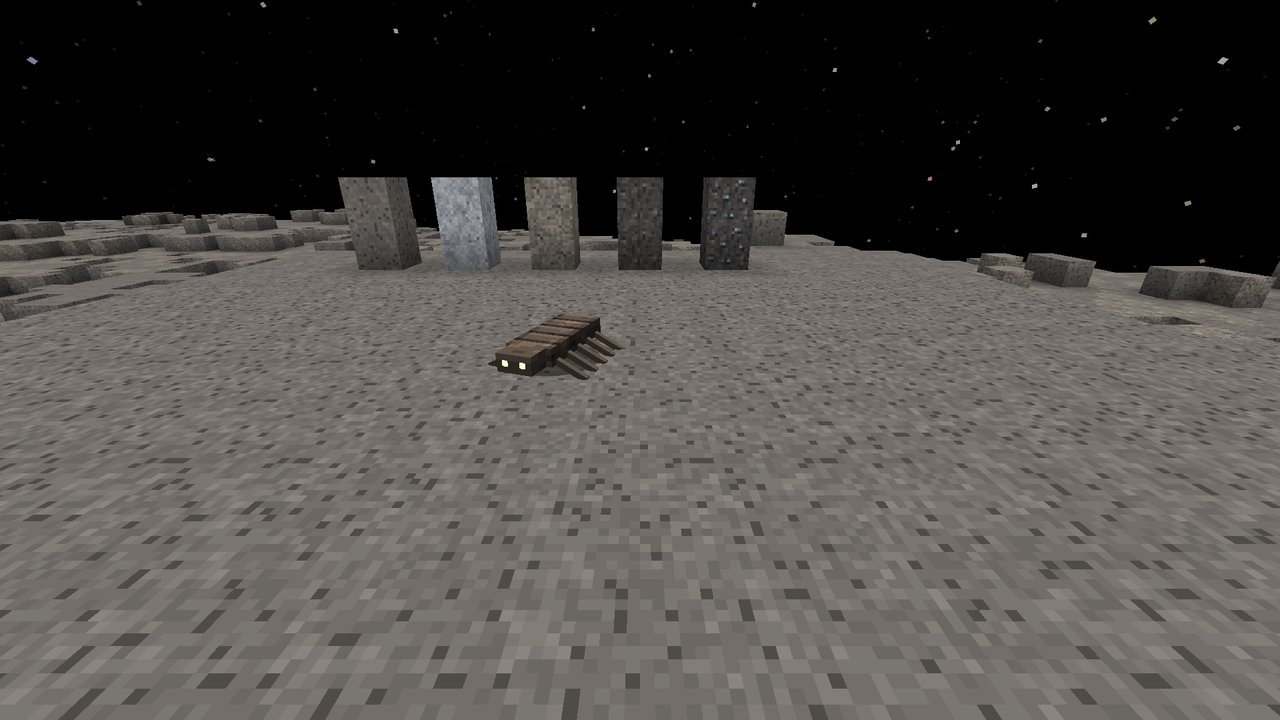
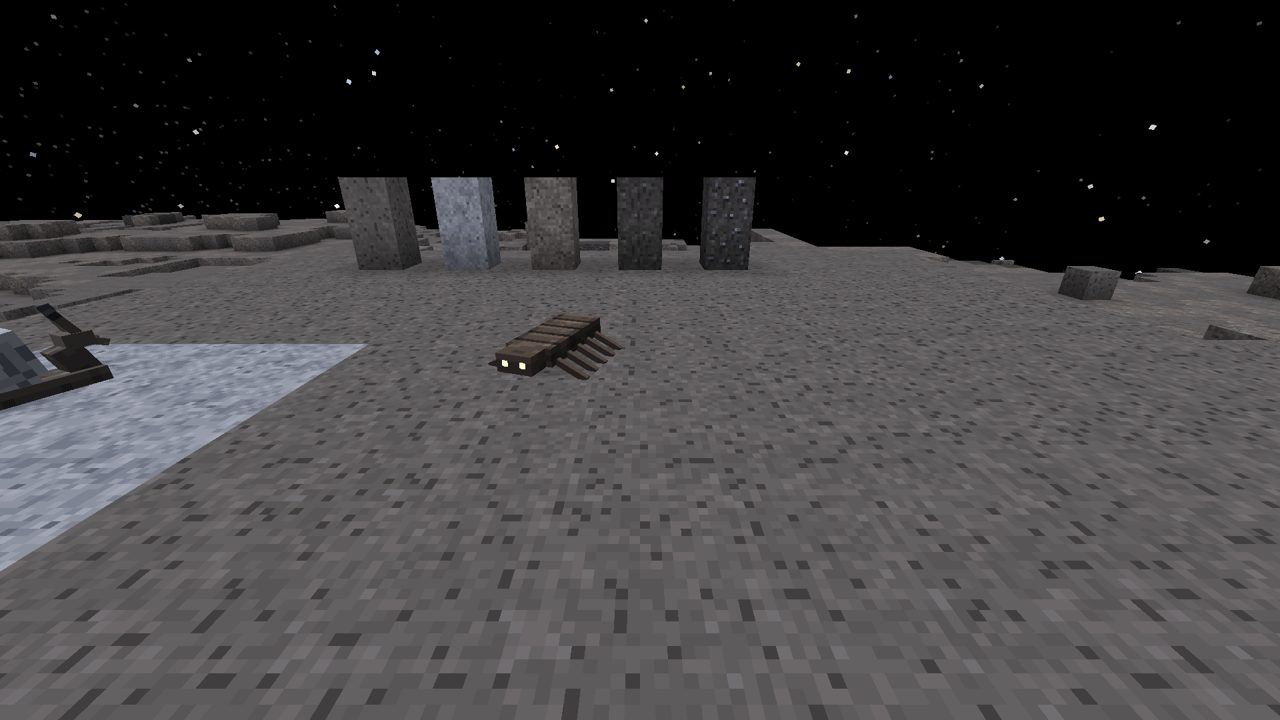
Hollow Snail: coiled eight-sided shell, neck, eye stalks and feelers
The shell sits crosswise on the foot and leans back over the tail: two crossed blocks give it an eight-sided profile, with a dark spiral coiling in on each side to a pale knob and growth bands across the whorl. A neck rises from the front of the tapering foot to a small head with eye stalks and two short feelers; the neck bows as it rasps hollow crust. The Mercury showcase gains a close shot of one grazing a hollow-deposit patch.

diff --git a/src/main/java/com/pizzaparker07/spacebreaker/client/mercury/HollowSnailModel.java b/src/main/java/com/pizzaparker07/spacebreaker/client/mercury/HollowSnailModel.java
@@ -12,10 +12,15 @@ import net.minecraft.client.model.geom.builders.MeshDefinition;
 import net.minecraft.client.model.geom.builders.PartDefinition;
 import net.minecraft.util.Mth;
 
-/** Hollow Snail: a long grey foot, a tall pale stepped shell, a small head with two eye stalks. UVs: mercury.py. */
+/**
+ * Hollow Snail: a long, tapering grey foot; a coiled shell set crosswise on its back (a deep whorl with an eight-sided
+ * profile, a spiral painted on each side and a knob at the coil's centre); a neck rising from the
+ * front of the foot to a small head with two eye stalks and two short feelers below. UVs: mercury.py.
+ */
 public class HollowSnailModel extends HierarchicalModel<HollowSnail> {
     public static final ModelLayerLocation LAYER = new ModelLayerLocation(Spacebreaker.id("hollow_snail"), "main");
     private final ModelPart root;
+    private final ModelPart neck;
     private final ModelPart head;
     private final ModelPart shell;
     private final ModelPart stalkL;
@@ -23,7 +28,8 @@ public class HollowSnailModel extends HierarchicalModel<HollowSnail> {
 
     public HollowSnailModel(ModelPart root) {
         this.root = root;
-        this.head = root.getChild("head");
+        this.neck = root.getChild("neck");
+        this.head = neck.getChild("head");
         this.shell = root.getChild("shell");
         this.stalkL = head.getChild("stalk_left");
         this.stalkR = head.getChild("stalk_right");
@@ -32,18 +38,27 @@ public class HollowSnailModel extends HierarchicalModel<HollowSnail> {
     public static LayerDefinition createLayer() {
         MeshDefinition mesh = new MeshDefinition();
         PartDefinition root = mesh.getRoot();
-        root.addOrReplaceChild("foot", CubeListBuilder.create().texOffs(0, 0).addBox(-2.5F, -2F, -6F, 5F, 2F, 11F), PartPose.offset(0F, 24F, 0F));
-        PartDefinition shell = root.addOrReplaceChild("shell", CubeListBuilder.create().texOffs(0, 14).addBox(-3.5F, -6F, -3.5F, 7F, 6F, 7F),
-                PartPose.offset(0F, 22F, 1.5F));
-        shell.addOrReplaceChild("apex", CubeListBuilder.create().texOffs(30, 14).addBox(-2F, -2F, -2F, 4F, 2F, 4F),
-                PartPose.offsetAndRotation(0.5F, -6F, 0.5F, 0F, 0.4F, 0F));
-        PartDefinition head = root.addOrReplaceChild("head", CubeListBuilder.create().texOffs(34, 0).addBox(-1.5F, -3F, -2F, 3F, 3F, 2F),
-                PartPose.offset(0F, 22F, -5F));
-        head.addOrReplaceChild("stalk_left", CubeListBuilder.create().texOffs(46, 0).addBox(-0.5F, -3F, -0.5F, 1F, 3F, 1F),
-                PartPose.offsetAndRotation(1F, -3F, -1F, -0.3F, 0F, 0.3F));
-        head.addOrReplaceChild("stalk_right", CubeListBuilder.create().texOffs(46, 0).mirror().addBox(-0.5F, -3F, -0.5F, 1F, 3F, 1F),
-                PartPose.offsetAndRotation(-1F, -3F, -1F, -0.3F, 0F, -0.3F));
-        return LayerDefinition.create(mesh, 64, 32);
+        root.addOrReplaceChild("foot", CubeListBuilder.create().texOffs(0, 0).addBox(-2.5F, -2F, -7F, 5F, 2F, 13F)
+                .texOffs(36, 0).addBox(-1.5F, -1F, 6F, 3F, 1F, 3F), PartPose.offset(0F, 24F, 0F));
+        PartDefinition shell = root.addOrReplaceChild("shell", CubeListBuilder.create()
+                // two crossed blocks give the coil an eight-sided profile seen from the side
+                .texOffs(0, 16).addBox(-2.5F, -7F, -4F, 5F, 6F, 8F)
+                .texOffs(28, 16).addBox(-2.4F, -8F, -3F, 4.8F, 8F, 6F)
+                .texOffs(50, 24).addBox(2.5F, -5.5F, -1F, 1F, 2F, 2F)
+                .texOffs(50, 24).mirror().addBox(-3.5F, -5.5F, -1F, 1F, 2F, 2F), PartPose.offsetAndRotation(0F, 22.5F, 2F, -0.18F, 0F, 0F));
+        PartDefinition neck = root.addOrReplaceChild("neck", CubeListBuilder.create().texOffs(48, 0).addBox(-1.5F, -4F, -1.5F, 3F, 4F, 3F),
+                PartPose.offsetAndRotation(0F, 22.5F, -5.5F, -0.3F, 0F, 0F));
+        PartDefinition head = neck.addOrReplaceChild("head", CubeListBuilder.create().texOffs(48, 8).addBox(-1.5F, -2F, -2.5F, 3F, 2F, 3F),
+                PartPose.offsetAndRotation(0F, -3.5F, -0.5F, 0.3F, 0F, 0F));
+        head.addOrReplaceChild("stalk_left", CubeListBuilder.create().texOffs(36, 6).addBox(-0.5F, -4F, -0.5F, 1F, 4F, 1F),
+                PartPose.offsetAndRotation(0.8F, -2F, -1.2F, -0.35F, 0F, 0.3F));
+        head.addOrReplaceChild("stalk_right", CubeListBuilder.create().texOffs(36, 6).mirror().addBox(-0.5F, -4F, -0.5F, 1F, 4F, 1F),
+                PartPose.offsetAndRotation(-0.8F, -2F, -1.2F, -0.35F, 0F, -0.3F));
+        head.addOrReplaceChild("feeler_left", CubeListBuilder.create().texOffs(36, 12).addBox(-0.5F, -0.5F, -1.5F, 1F, 1F, 1.5F),
+                PartPose.offsetAndRotation(0.9F, -0.5F, -2.3F, 0.45F, -0.2F, 0F));
+        head.addOrReplaceChild("feeler_right", CubeListBuilder.create().texOffs(36, 12).mirror().addBox(-0.5F, -0.5F, -1.5F, 1F, 1F, 1.5F),
+                PartPose.offsetAndRotation(-0.9F, -0.5F, -2.3F, 0.45F, 0.2F, 0F));
+        return LayerDefinition.create(mesh, 64, 64);
     }
 
     @Override
@@ -53,13 +68,15 @@ public class HollowSnailModel extends HierarchicalModel<HollowSnail> {
 
     @Override
     public void setupAnim(HollowSnail snail, float limbSwing, float limbSwingAmount, float ageInTicks, float netHeadYaw, float headPitch) {
-        head.yRot = netHeadYaw * Mth.DEG_TO_RAD * 0.5F;
-        // grazing: the head dips to rasp at the crust; moving: the shell rocks a little
-        float rasp = snail.onHollow() ? Math.max(0, Mth.sin(ageInTicks * 0.15F)) * 0.5F : 0F;
-        head.xRot = headPitch * Mth.DEG_TO_RAD * 0.3F + rasp;
+        neck.yRot = netHeadYaw * Mth.DEG_TO_RAD * 0.5F;
+        // grazing: the neck bows to rasp at the crust; moving: the shell rocks a little
+        float rasp = snail.onHollow() ? Math.max(0, Mth.sin(ageInTicks * 0.15F)) * 0.6F : 0F;
+        neck.xRot = -0.3F + headPitch * Mth.DEG_TO_RAD * 0.3F + rasp;
+        head.xRot = 0.3F + rasp * 0.5F;
         shell.zRot = Mth.sin(limbSwing * 0.8F) * 0.06F * limbSwingAmount;
+        shell.xRot = -0.18F; // the coil leans back over the tail
         float wave = Mth.sin(ageInTicks * 0.1F) * 0.12F;
-        stalkL.xRot = -0.3F + wave;
-        stalkR.xRot = -0.3F - wave;
+        stalkL.xRot = -0.35F + wave;
+        stalkR.xRot = -0.35F - wave;
     }
 }

diff --git a/tools/textures/modules/mercury.py b/tools/textures/modules/mercury.py
@@ -153,40 +153,55 @@ SNAIL_BODY = ramp('#3e3a37', '#524c47', '#665f58', '#7a726a', '#8e857c')
 
 
 def snail():
-    """Hollow Snail: grey, finely wrinkled foot and head; a pale blue-white shell banded like the hollow crust."""
-    cv = Canvas(64, 32)
+    """Hollow Snail (64x64): a grey, finely wrinkled foot and neck; a pale blue-white shell banded like the hollow crust,
+    a dark spiral line coiling in on each side to a pale knob."""
+    import math
+    cv = Canvas(64, 64)
     n = clustered(64, 32, 7601, passes=1)
 
-    def foot(face, x, y, fw, fh):
+    def body(face, x, y, fw, fh, ox=0):
         if face == 'bottom':
             return SNAIL_BODY[0]
         if face == 'top':
-            return noise_pick(SNAIL_BODY, 3 if x in (1, fw - 2) else 2, n, x, y)
-        return noise_pick(SNAIL_BODY, 2 if y == 0 else 1, n, x + 20, y + 4)
+            return noise_pick(SNAIL_BODY, 3 if x in (1, fw - 2) else 2, n, x + ox, y)
+        return noise_pick(SNAIL_BODY, 2 if y == 0 else 1, n, x + 20 + ox, y + 4)
 
-    paint(cv, 0, 0, 5, 2, 11, foot)
+    paint(cv, 0, 0, 5, 2, 13, body)
+    paint(cv, 36, 0, 3, 1, 3, body)
+    paint(cv, 48, 0, 3, 4, 3, lambda f, x, y, fw, fh: body(f, x, y, fw, fh, 9) if (y + x) % 3 else SNAIL_BODY[1])
+
+    def spiral(x, y, fw, fh):
+        cx, cy = (fw - 1) / 2, (fh - 1) / 2
+        r = math.hypot(x - cx, y - cy)
+        a = (math.atan2(y - cy, x - cx) / (2 * math.pi)) % 1.0
+        # a line whose radius grows by 1.7 px per turn
+        return abs(((r / 1.7) - a) % 1.0 - 0.5) > 0.36
 
     def shell(face, x, y, fw, fh):
         if face == 'bottom':
             return SNAIL_BODY[1]
+        if face in ('left', 'right'):
+            if spiral(x, y, fw, fh):
+                return GRAPHITE[2]
+            turn = int(math.hypot(x - (fw - 1) / 2, y - (fh - 1) / 2) / 1.7)
+            return HOLLOW[5] if turn % 2 == 0 else HOLLOW[3]
         if face == 'top':
-            ring = max(abs(x - 3), abs(y - 3))
-            return HOLLOW[5 - ring] if ring < 3 else HOLLOW[2]
-        # growth bands down the sides, lit at the rim
-        if y == 0:
-            return HOLLOW[5]
+            return HOLLOW[5] if x in (1, 2, 3) else HOLLOW[4]
+        # the front and back of the coil: growth bands across the whorl
         return HOLLOW[4] if y % 2 else HOLLOW[2 if (x + y) % 5 else 1]
 
-    paint(cv, 0, 14, 7, 6, 7, shell)
-    paint(cv, 30, 14, 4, 2, 4, lambda f, x, y, fw, fh: HOLLOW[5] if f == 'top' else HOLLOW[3])
+    paint(cv, 0, 16, 5, 6, 8, shell)
+    paint(cv, 28, 16, 5, 8, 6, shell)
+    paint(cv, 50, 24, 1, 2, 2, lambda f, x, y, fw, fh: HOLLOW[5] if f in ('right', 'left', 'top') else HOLLOW[3])
 
     def head(face, x, y, fw, fh):
         if face == 'front' and y == fh - 1:
             return SNAIL_BODY[0]  # rasping mouth
         return noise_pick(SNAIL_BODY, 3 if face == 'top' else 2, n, x + 40, y + 10)
 
-    paint(cv, 34, 0, 3, 3, 2, head)
-    paint(cv, 46, 0, 1, 3, 1, lambda f, x, y, fw, fh: GRAPHITE[0] if y == 0 else SNAIL_BODY[2])
+    paint(cv, 48, 8, 3, 2, 3, head)
+    paint(cv, 36, 6, 1, 4, 1, lambda f, x, y, fw, fh: GRAPHITE[0] if y == 0 else SNAIL_BODY[2])
+    paint(cv, 36, 12, 1, 1, 2, lambda f, x, y, fw, fh: SNAIL_BODY[3] if f == 'front' else SNAIL_BODY[2])
     return cv
 
 

diff --git a/src/testmod/java/com/pizzaparker07/spacebreaker/testmod/showcase/MercuryScenario.java b/src/testmod/java/com/pizzaparker07/spacebreaker/testmod/showcase/MercuryScenario.java
@@ -77,6 +77,21 @@ final class MercuryScenario implements ShowcaseScenario {
             c.setPersistenceRequired();
             level.addFreshEntity(c);
         }
+        // a hollow snail grazing a patch of hollow deposit beside the crawler
+        for (int x = SX - 6; x <= SX - 3; x++) {
+            for (int z = SZ + 4; z <= SZ + 7; z++) {
+                level.setBlock(new BlockPos(x, y0, z), MercuryModule.HOLLOW_DEPOSIT.get().defaultBlockState(), Block.UPDATE_CLIENTS);
+            }
+        }
+        var snail = MercuryEntities.HOLLOW_SNAIL.get().create(level);
+        if (snail != null) {
+            snail.moveTo(SX - 4.5, y0 + 1, SZ + 5.5, 200F, 0F);
+            snail.setYBodyRot(200F);
+            snail.setYHeadRot(200F);
+            snail.setNoAi(true);
+            snail.setPersistenceRequired();
+            level.addFreshEntity(snail);
+        }
         int[] m = mineSpot(terrain);
         int my = (int) Math.floor(terrain.height(m[0] + 12, m[1] + 4));
         MarsScenario.placePiece(level, new IceMinePiece(31L, m[0], my, m[1]));
@@ -110,6 +125,7 @@ final class MercuryScenario implements ShowcaseScenario {
         }
         int y0 = (int) Math.floor(t.height(SX, SZ));
         s.add(new ShowcaseDriver.Shot("05_crawler_and_rocks", 0, SX + 1.5, y0 + 3, SZ + 9.5, 180F, 22F, true, fp, 80, at(0.03), null));
+        s.add(new ShowcaseDriver.Shot("05b_hollow_snail", 0, SX - 3.0, y0 + 2.4, SZ + 8.6, 155F, 24F, true, fp, 60, at(0.03), null));
         int[] m = mineSpot(t);
         int my = (int) Math.floor(t.height(m[0] + 12, m[1] + 4));
         s.add(new ShowcaseDriver.Shot("06_polar_crater", 0, m[0] + 12.5, my + 12, m[1] + 34.5, 180F, 20F, true, fp, 260, at(0.25), null));

diff --git a/docs/CONTENT.md b/docs/CONTENT.md
@@ -392,7 +392,7 @@ Her içerik paketi gerçek istemcide vitrin dünyasında fotoğraflanır; onayda
 | Ay 🎨 | Regolit Kenesi (tozun altına saklanır, düşük yerçekiminde sıçrar), Yaşlı Regolit Kenesi (lav tüpü muhafızı), Toz Yüzücüsü (regolitin hemen altında süzülen pasif canlı, arkasında toz dalgaları), Keşif Dronu (karakol muhafızı, sersemletme atışı), Parıltı Böceği (pasif, ışıyan; fırçayla Parıltı Kabuğu verir → elektriksiz Parıltı Lambası, Ay gecesi için), Isı Emici (yalnız Ay gecesinde çıkar, lamba ışığında doğmaz; dokunuşu dondurur, akü ve jeneratörlerden enerji emip parlar, gün doğunca süblimleşir; ölünce emdiği enerji kızıltaşa döner) |
 | Mars 🎨 | Pas Böceği (demir oksit yer, tarafsız; aralarında koyu bir dikiş olan, geniş alt kabuktan dar tepeye üç basamakta yükselen iki kubbe kanat kabuğu, pas çukurcukları ve tepede kesik metalik parıltı; koyu göğüs kalkanı, kıvrık iki parçalı çeneler, dirsekli antenler, dizden yükseğe kıvrılan altı bacak), Toz Şeytanı (fırtınalarda canlı hortum: dibi dar ve yoğun, tepesi geniş ve seyrek, her biri kendi hızında dönen içi boş sekizgen toz perdeleri; alt yarıda yoğun çekirdek, yerde sürünen toz eteği, tabanda savrulan çakıllar), Kanyon Pusucusu (kanyon duvarı gibi pas, devetüyü ve koyu damarlarla katmanlanmış basamaklı kabuk, tepede kaya yumruları; iki çeneli kısa baş ve kehribar gözler; eklemli kollarda iki parmaklı kıskaçlar; dizden yükseğe kıvrılan altı bacak; kapanınca bir kaya topağı), Taş Otlayan (alçak, zırhlı pasif otlayıcı: omuzlarda geniş, arkaya daralan gövde; böğürlerden taşan, kuyruğa doğru küçülen pas lekeli kaya plakaları; kısa boyun üstünde aşağı eğik kama baş ve kayadan kabuk kazıyan geniş yassı çene; yandan görünen altı kısa kalın bacak), Kutup Kurtçuğu (berrak buz halkalar zinciri: her halka koyu arduvaz bir çekirdeği saran yarı saydam bir kabuk, kafanın arkasında en geniş, kuyrukta buzlu bir kristalle incelir; böğürlerde küçük buz yumruları; kırağı beyazı küt baş, koyu turuncu yutağı çevreleyen altı buz dişli yuvarlak ağız) |
 | Venüs (bulutlar) 🎨 | Asit Vatozu (süzülen, tarafsız; kükürt ve deri bırakır; küt burna ve dar kıça incelen baklava gövde, göz tümseği ve sırt sırtı, yukarı kıvrık iki boynuz lobu; ardı ardına dalgalanan, geriye süpürülmüş üç ince panelli kanatlar ve parlak asit sarısı kenarlar; koyu benekli zeytin sırt; ucunda yassı diken olan iki parçalı kamçı kuyruk), Bulut Medüzü (pasif; basamaklı yarı saydam kubbe çan, fırfırlı etek, içinde ışıyan sıcak çekirdek, iki fırfırlı ağız kolu ve farklı uzunlukta, iki eklemli sekiz dokunaç; Kaldırma Gazı Kesesi bırakır: kullanınca 30 sn yavaş düşüş) |
-| Merkür 🎨 | Alacakaranlık Sürüngeni (tehlikeli; grafit bırakır; gece-gündüz sınırında yaşar; güneş yükselince ya da gece çökünce toprağa gömülür), Oyuk Salyangozu (pasif, faydalı: oyuk tortusunu kazıyıp kükürt bırakır, kükürtle çoğalır) |
+| Merkür 🎨 | Alacakaranlık Sürüngeni (tehlikeli; grafit bırakır; gece-gündüz sınırında yaşar; güneş yükselince ya da gece çökünce toprağa gömülür), Oyuk Salyangozu (pasif, faydalı: oyuk tortusunu kazıyıp kükürt bırakır, kükürtle çoğalır; uzun, incelen gri ayak; sırtında enine duran, sekizgen profilli, iki yanında koyu sarmal çizgi ve ortasında düğme olan, kuyruğa yaslı soluk mavi-beyaz kabuk; ayağın önünden yükselen boyunda göz saplı küçük baş ve kısa alt dokunaçlar) |
 | Io 🎨 | Kükürt Yengeci (ısıya dayanıklı, yakınına gelene saldırır) |
 | Europa 🎨 | Buzaltı Işık Yılanı (biyolüminesan, pasif; tuzlu su havuzlarında ve gömülü okyanusta) |
 | Ganymede 🎨 | Oluk Otlayıcısı (zırhlı, sürü halinde, okyanus tuzuyla çoğalır) |
